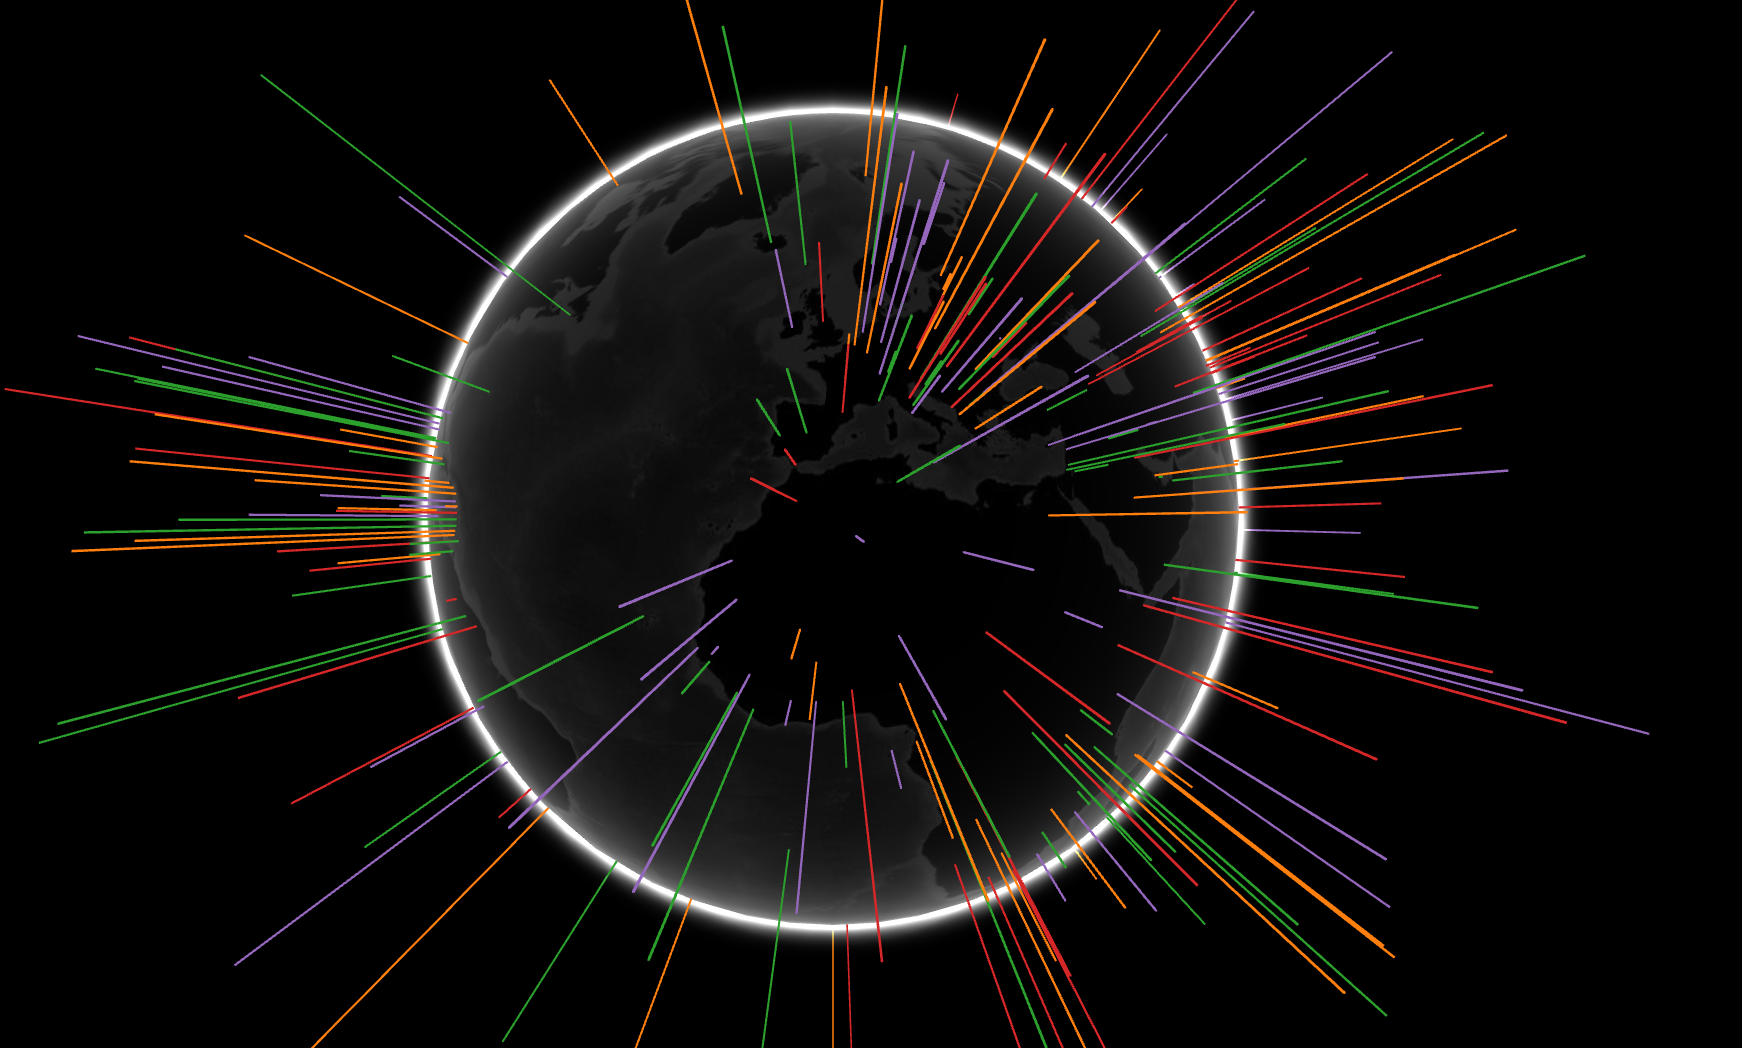
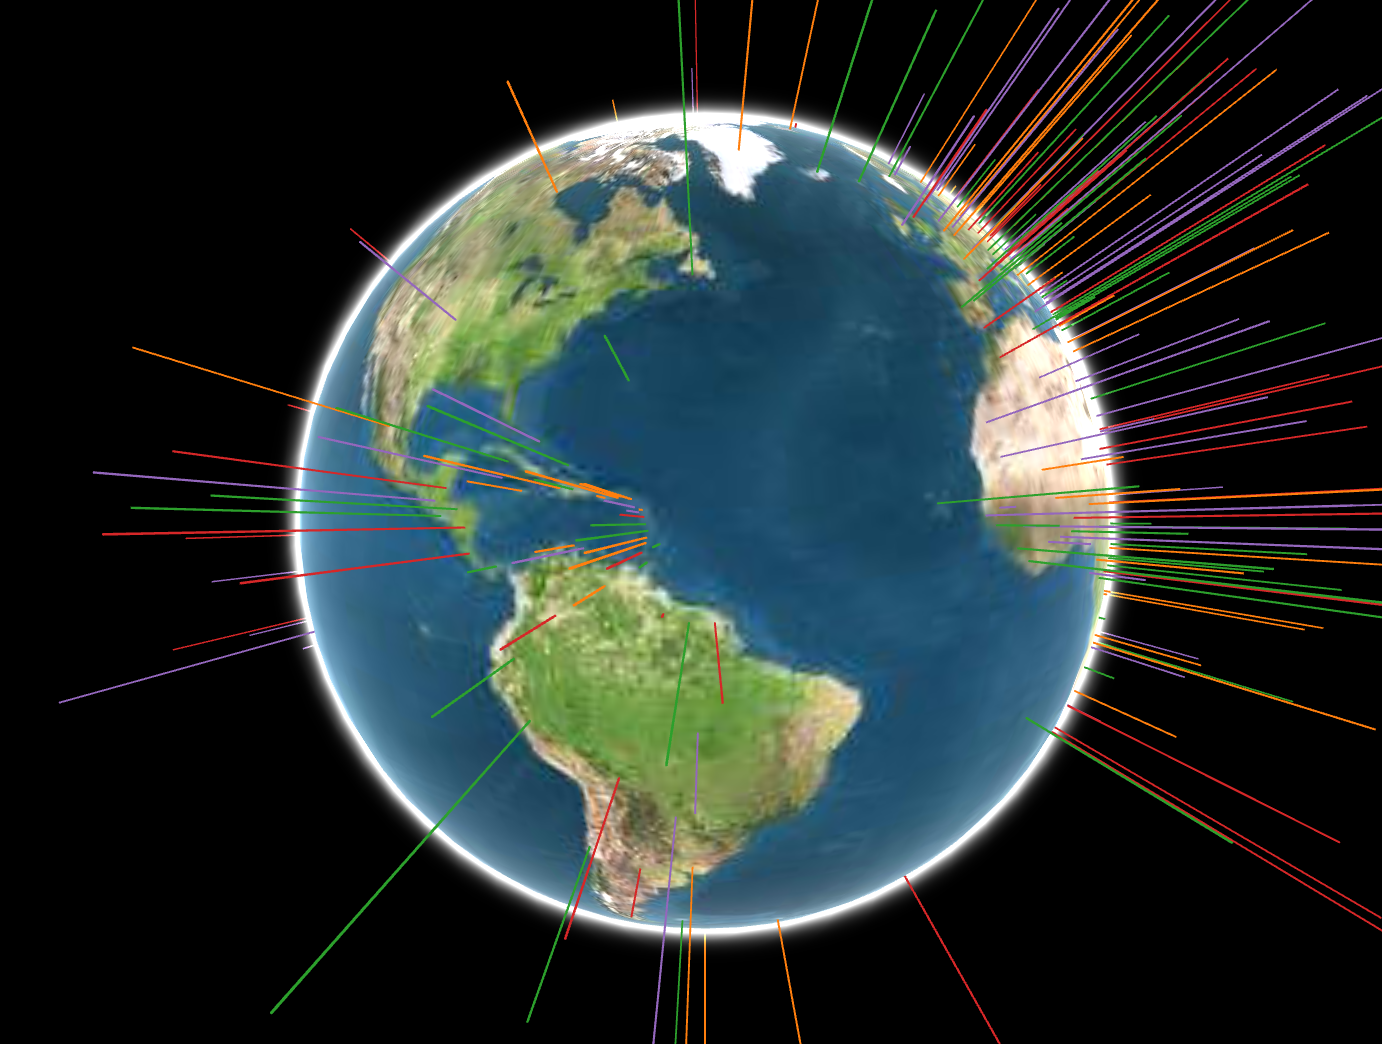
globe options

diff --git a/globe.js b/globe.js
@@ -13,7 +13,7 @@
 
 var DAT = DAT || {};
 
-DAT.Globe = function(container, opts) {
+DAT.Globe = function(container, opts, globeType) {
   opts = opts || {};
   
   var colorFn = opts.colorFn || function(x) {
@@ -104,7 +104,7 @@ DAT.Globe = function(container, opts) {
     shader = Shaders['earth'];
     uniforms = THREE.UniformsUtils.clone(shader.uniforms);
 
-    uniforms['texture'].value = THREE.ImageUtils.loadTexture(imgDir+'world.jpg');
+    uniforms['texture'].value = THREE.ImageUtils.loadTexture(imgDir+globeType);
 
     material = new THREE.ShaderMaterial({
 

diff --git a/index.html b/index.html
@@ -109,8 +109,10 @@
   };
 
   function runGlobe(){
+    var globeType = Block.vars.globe_color ? "world2.jpg": "world.jpg";
+
     var globe = DAT.Globe(document.getElementById('container'),
-    {colorFn: colorFn});
+    {colorFn: colorFn}, globeType);
 
     var data = [];
     
